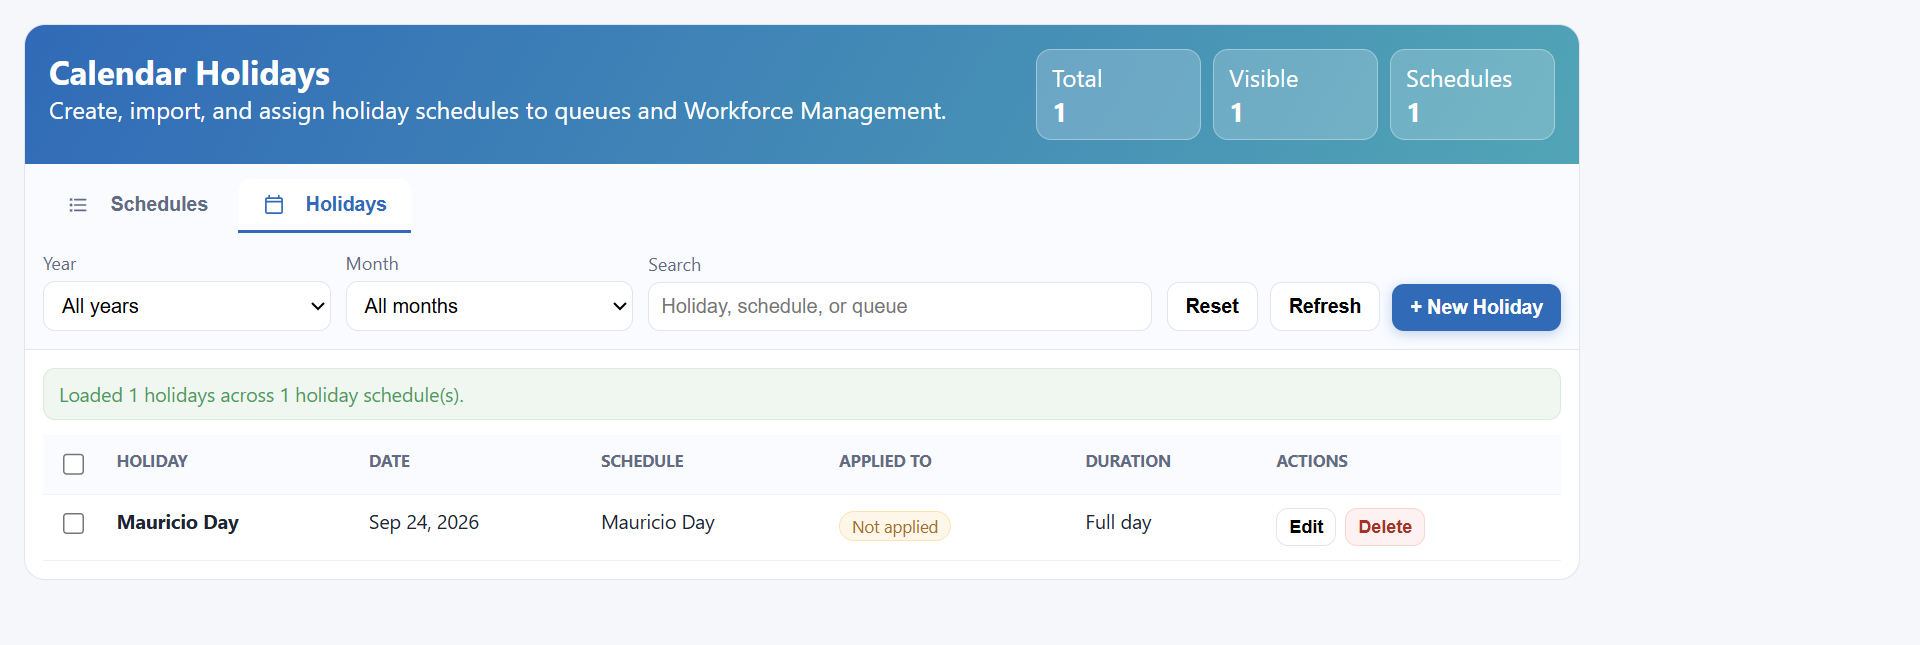
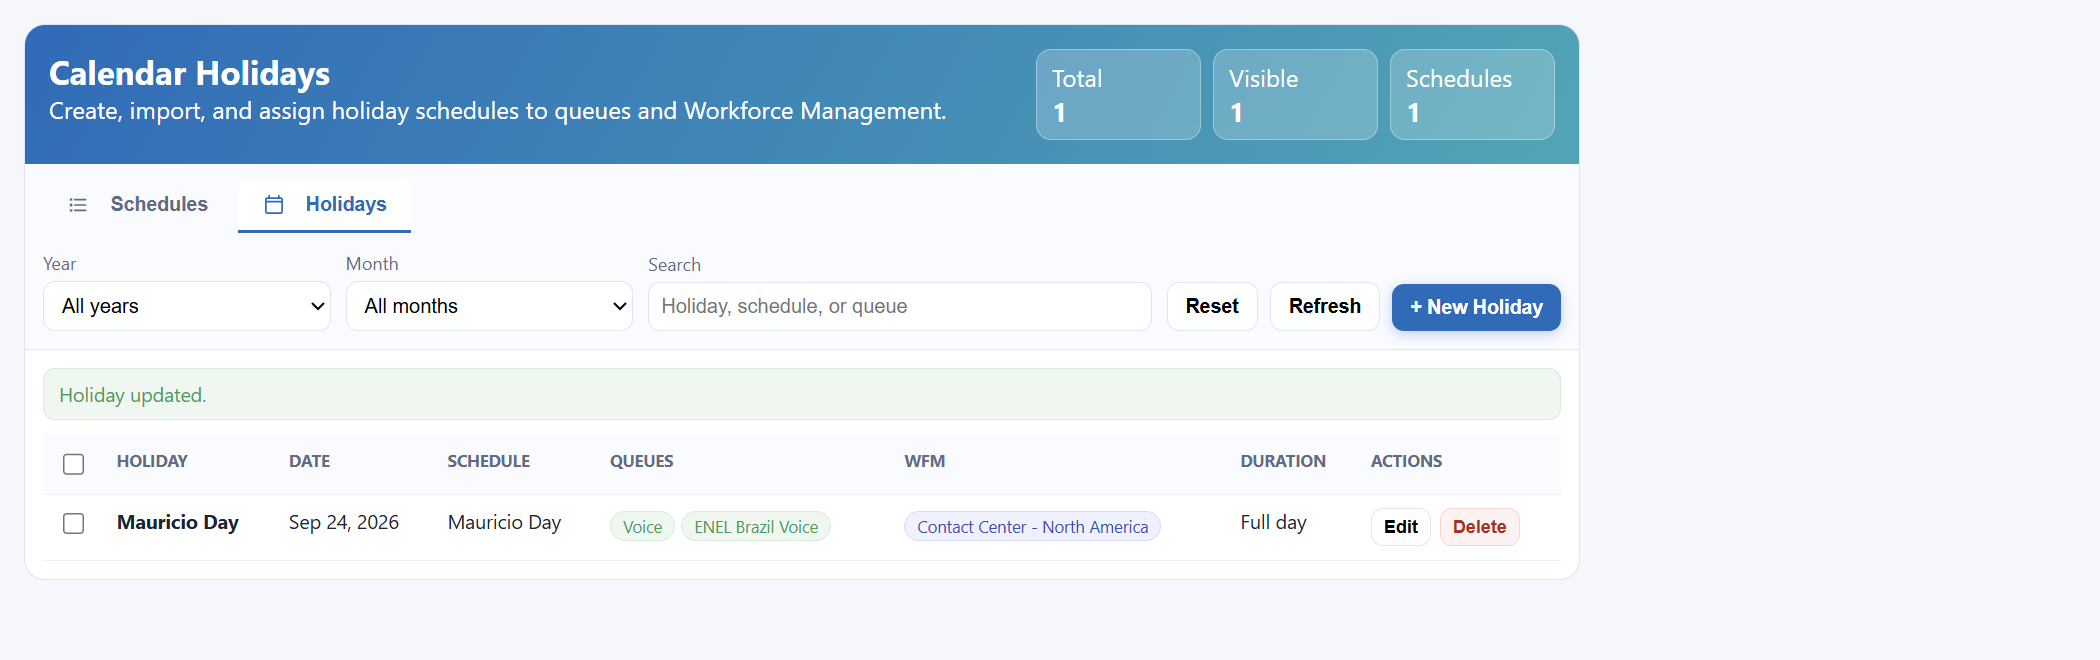
v1.2.2: split list view into separate Queues and WFM columns

diff --git a/README.md b/README.md
@@ -123,7 +123,7 @@ If you want to modify the app and re-package it:
 ./scripts/build-solution-zip.ps1
 ```
 
-This regenerates `QueueHolidaysManager_1_2_1_0.zip` at the repo root, ready to import.
+This regenerates `QueueHolidaysManager_1_2_2_0.zip` at the repo root, ready to import.
 
 ## A note on the navigation step
 
